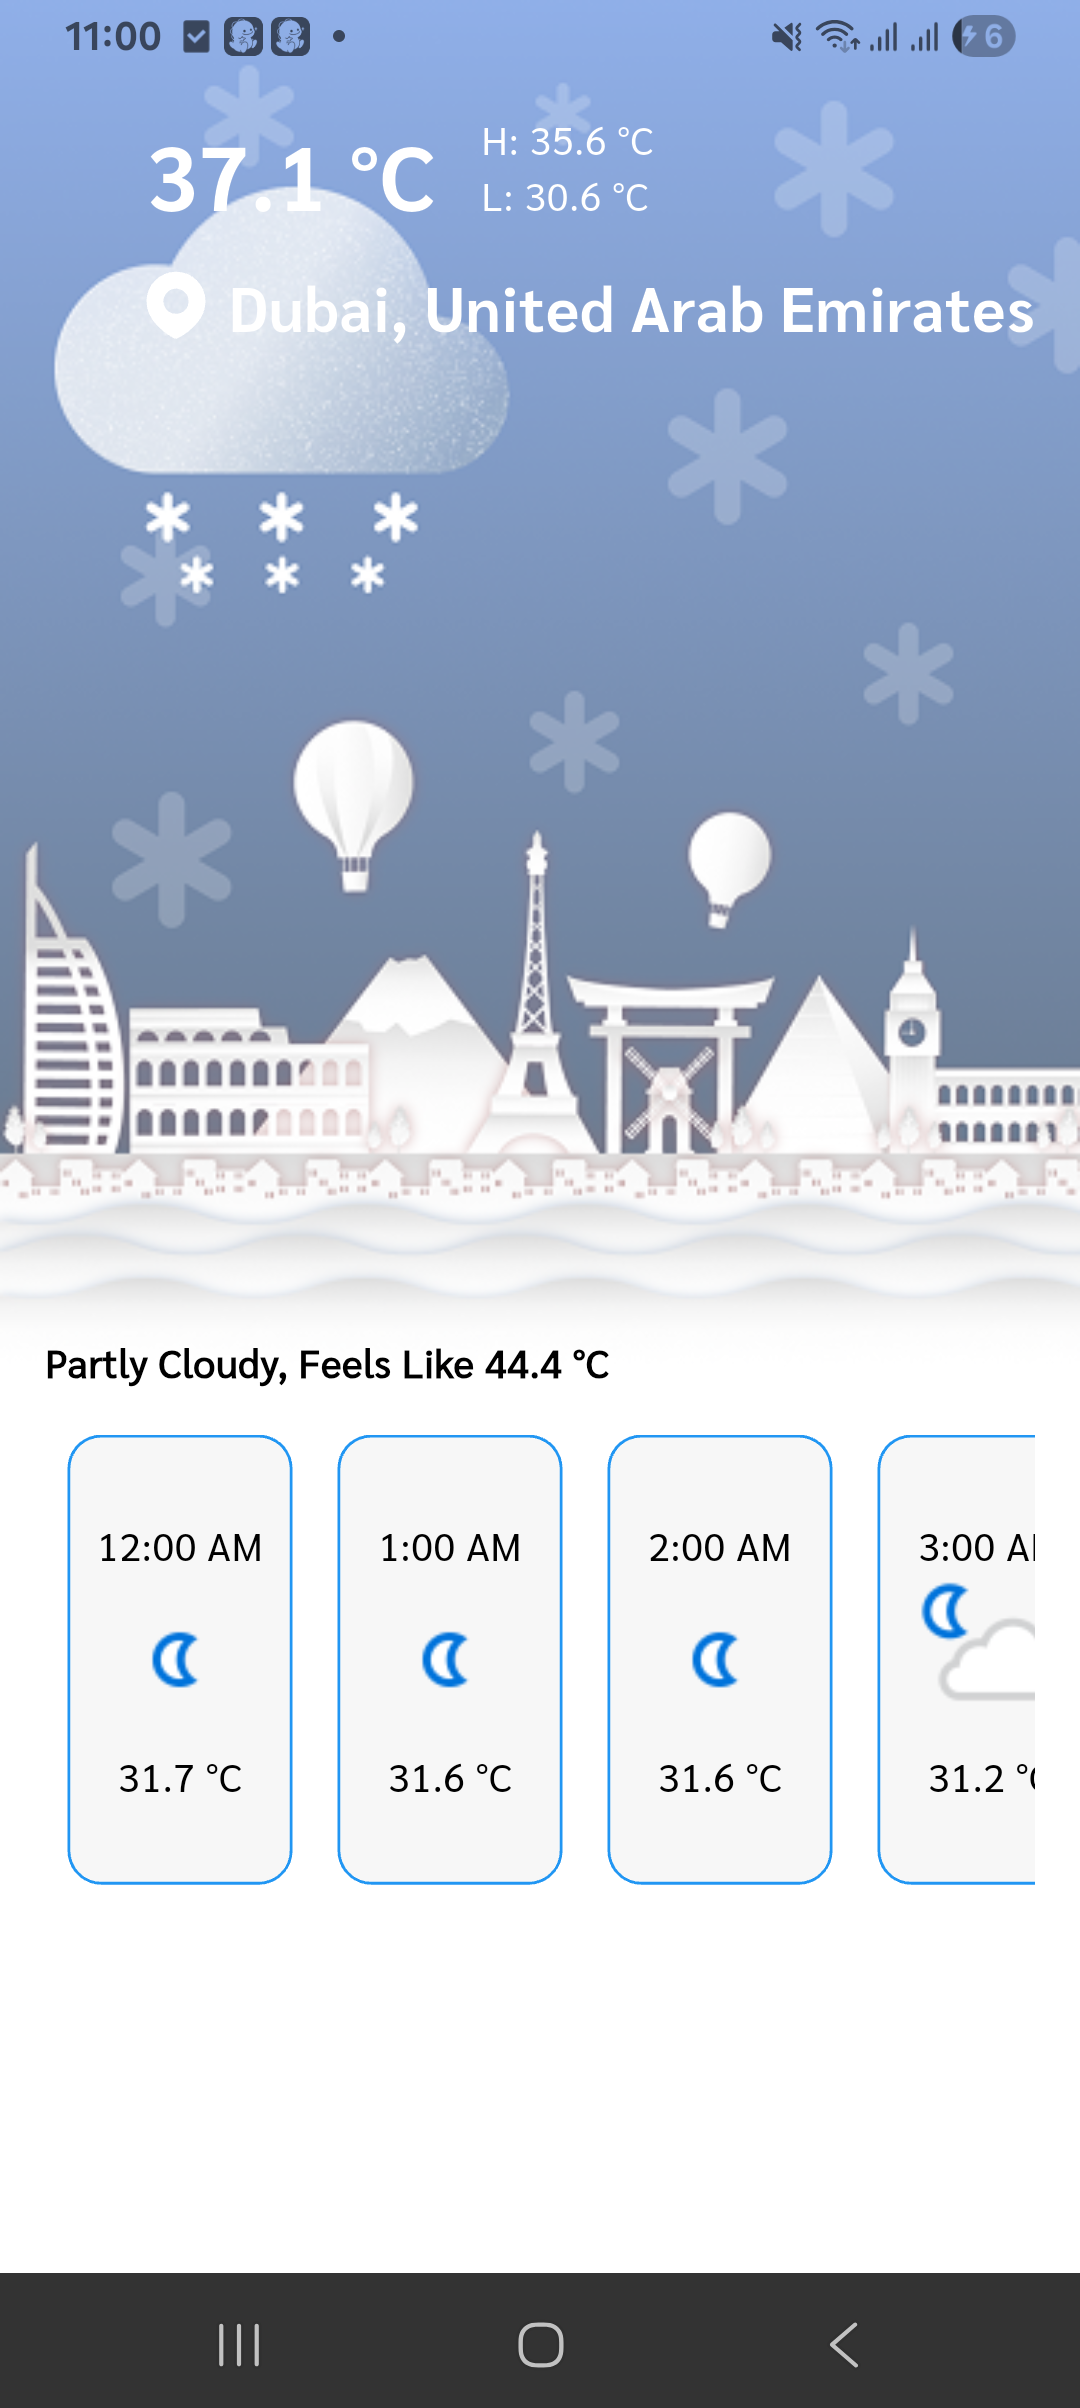
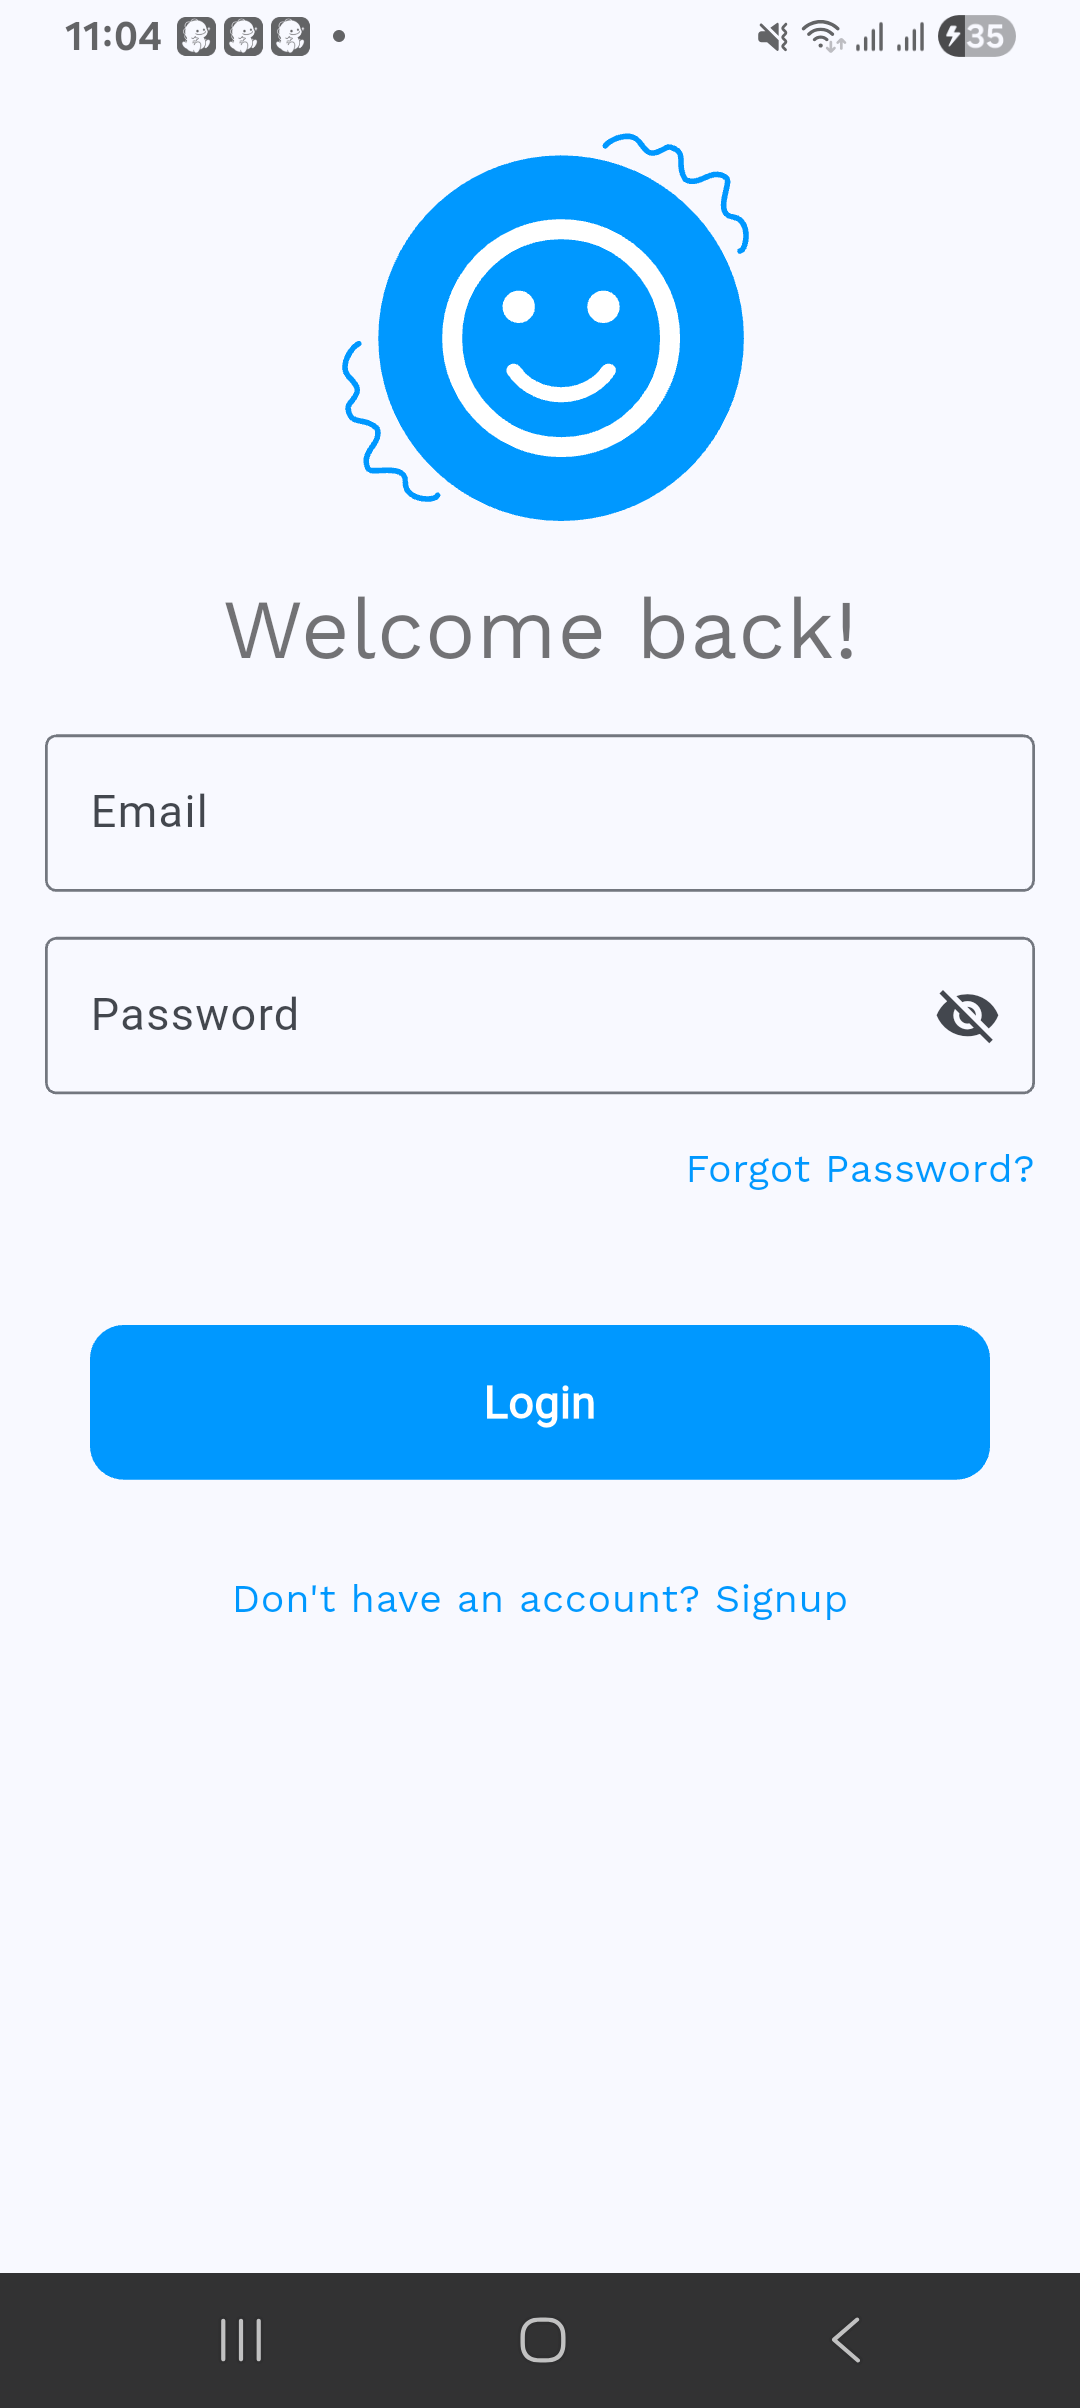
updated readme

diff --git a/lib/main.dart b/lib/main.dart
@@ -36,7 +36,7 @@ class MyApp extends StatelessWidget {
       debugShowCheckedModeBanner: false,
       showSemanticsDebugger: false,
       theme: theme,
-      home:HomePage()
+      home:LoginPage()
     );
   }
 }

diff --git a/README.md b/README.md
@@ -4,15 +4,20 @@ A new Flutter project.
 
 ## Getting Started
 
-This project is part of **Assignment 6** from the TuteDude Flutter course.  
-**Task: Build an Interactive Weather App**
+This project is part of **Assignment 7** from the TuteDude Flutter course.  
+**Create “Poképedia” – A Fun & Creative Pokédex App**
 
 ## Description
 
-This app is a Weather forecasting app
+This app is a Creative Pokédex App
 
-- The app is show current and hourly forecast using weather api
+- The app first show login screen where user can enter his email and password to login
+- On tap don't have an account he will be redirected to signup page
+- once login or signup he can se home page where he can see list of pokemons fetched from apis
 
 ## Screenshots
 
 ![Screenshot not found](screenshots/img.png)
+![Screenshot not found](screenshots/img_1.png)
+![Screenshot not found](screenshots/img_2.png)
+![Screenshot not found](screenshots/img_3.png)
